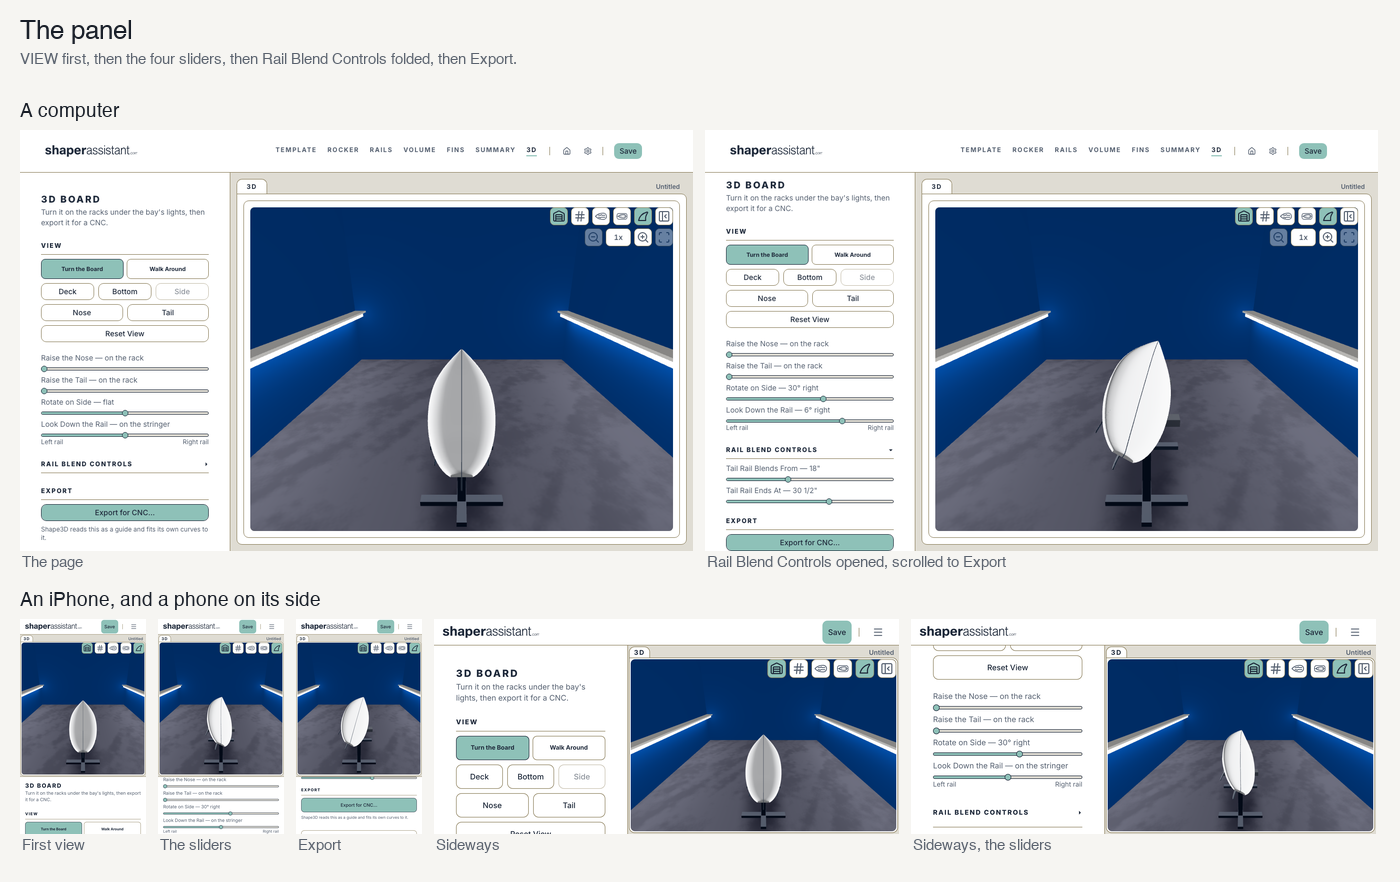
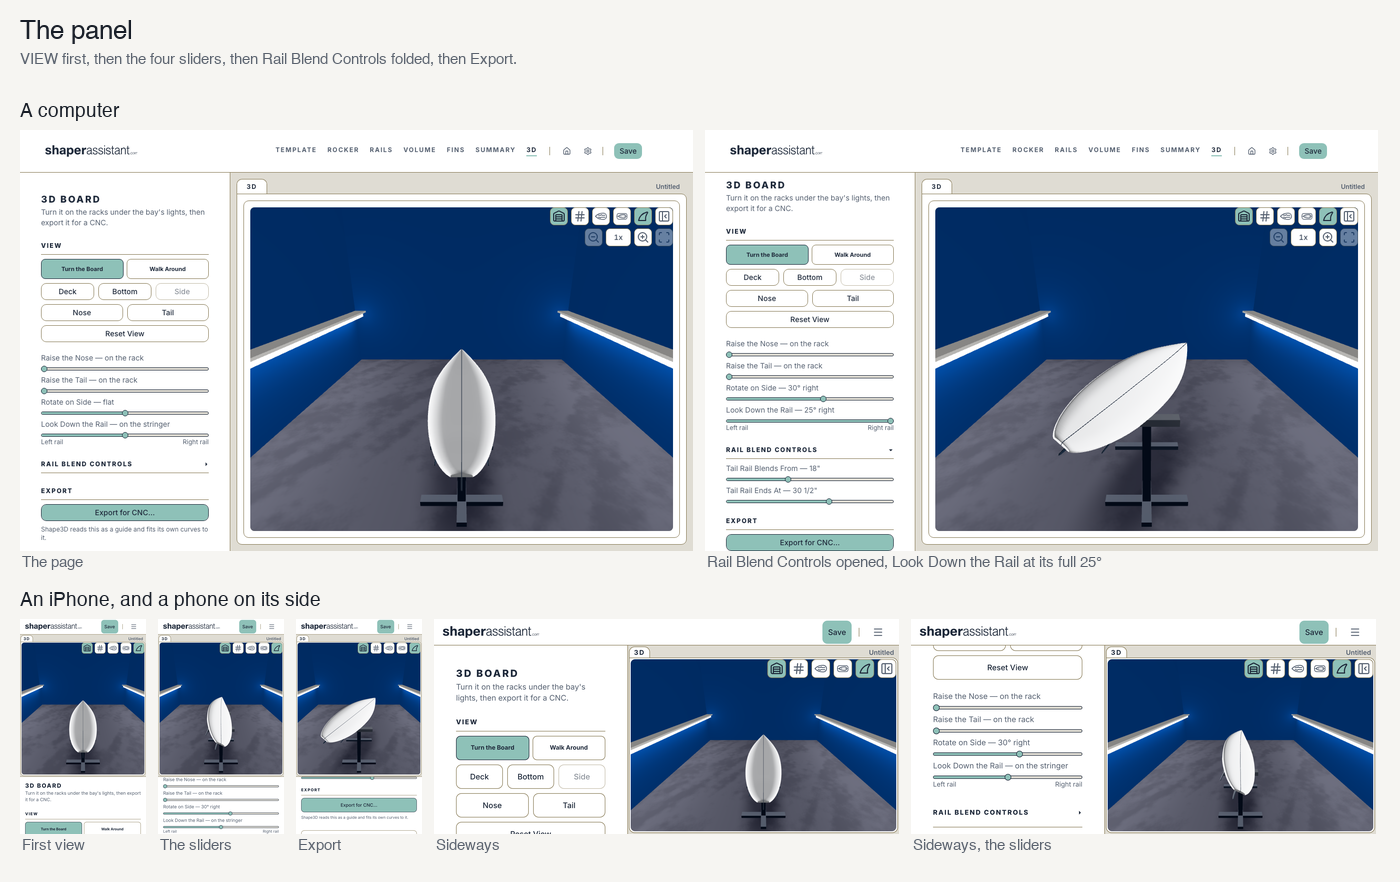
feat(16-18): let Look Down the Rail go to 25 degrees either way, and keep the board sitting on the pads however far it is turned
- The founder: "look down rail should go to 25deg", in both modes
- Turned that far and nearly bottom up, a long board sat over 4 mm into a pad;
  it now rests on the pad's real footprint under the turned board
- A board lying straight on the racks sits exactly where it did

diff --git a/lib/geometry/shaping-bay.test.ts b/lib/geometry/shaping-bay.test.ts
@@ -376,6 +376,14 @@ describe("rackSeat and overPad — the board on its racks", () => {
         expect(seat.at).toBeCloseTo(BAY.rackShare * seat.length, 9);
       });
 
+      it("turned over the pads it rests on what the pad's corners reach, and square to them it reads as it always has", () => {
+        for (const roll of [0, 45, 90, 150, 180]) {
+          expect(overPad(seat, roll, 0)).toBe(overPad(seat, roll));
+          expect(overPad(seat, roll, 180)).toBeCloseTo(overPad(seat, roll), 6);
+          expect(overPad(seat, roll, SIGHT_LIMIT_DEG)).toBeGreaterThanOrEqual(overPad(seat, roll));
+        }
+      });
+
       it("at 0° overPad is home; on a rail it rises by less than half its width plus its thickness", () => {
         expect(overPad(seat, 0)).toBe(seat.home);
         const width = surface.width;
@@ -449,9 +457,10 @@ describe("boardPlace — where the board stands for any turn", () => {
       });
 
       it("end for end or turned a few degrees, no vertex lies 2 mm inside a pad, raised or rolled", () => {
-        for (const swing of [180, -SIGHT_LIMIT_DEG, SIGHT_LIMIT_DEG, 180 - SIGHT_LIMIT_DEG]) {
+        for (const swing of [180, -SIGHT_LIMIT_DEG, SIGHT_LIMIT_DEG, 180 - SIGHT_LIMIT_DEG, 180 + SIGHT_LIMIT_DEG]) {
           for (const lift of [-60, -30, 0, 30, 60]) {
-            for (const roll of [-90, -45, 0, 45, 90, 180]) {
+            // Every 30°: a coarser grid stepped over a board nearly bottom up, 4.6 mm into a pad at roll 150.
+            for (let roll = -180; roll < 180; roll += 30) {
               const angles = { swing, lift, roll };
               const place = boardPlace(all, angles, seat);
               let deepest = -Infinity;
@@ -505,6 +514,12 @@ describe("boardPlace — where the board stands for any turn", () => {
             { ...AT_REST, swing: 180 },
             { ...AT_REST, swing: SIGHT_LIMIT_DEG },
             { ...AT_REST, swing: -SIGHT_LIMIT_DEG },
+            { ...AT_REST, swing: 180 + SIGHT_LIMIT_DEG },
+            { ...AT_REST, swing: 180 - SIGHT_LIMIT_DEG },
+            { swing: SIGHT_LIMIT_DEG, lift: 0, roll: 45 },
+            { swing: -SIGHT_LIMIT_DEG, lift: 0, roll: -45 },
+            { swing: SIGHT_LIMIT_DEG, lift: BAY.liftLimitDeg, roll: 0 },
+            { swing: -SIGHT_LIMIT_DEG, lift: -BAY.liftLimitDeg, roll: 0 },
           ]) {
             expect(depthInPad(inRoom(p, angles, boardPlace(points, angles, seat)), seat.at)).toBeLessThan(0);
           }
@@ -659,6 +674,29 @@ describe("where the viewer stands", () => {
       });
     }
   });
+
+  it("the Look Down the Rail limit is the founder's 25°", () => {
+    expect(SIGHT_LIMIT_DEG).toBe(25);
+  });
+
+  for (const { label, seat, points } of [...BOARDS, LONGEST]) {
+    it(`${label}: at the full Look Down the Rail from either end the eye stays in the room, on every window`, () => {
+      for (const [, aspect] of ASPECTS) {
+        const lens = bayLens(points, seat, aspect);
+        for (const name of ["nose", "tail"] as const) {
+          for (const sightDeg of [-SIGHT_LIMIT_DEG, SIGHT_LIMIT_DEG]) {
+            const viewer = clampViewer({ ...standAt(name, 0), sightDeg }, seat, lens);
+            expect(viewer.sightDeg).toBe(sightDeg);
+            const { position, axes } = viewerPlace(viewer, lens, seat);
+            expect(Math.abs(position[0])).toBeLessThanOrEqual(BAY.lengthMm / 2 - BAY.viewerMarginMm + 1);
+            expect(Math.abs(position[2])).toBeLessThanOrEqual(BAY.widthMm / 2 - BAY.viewerMarginMm + 1);
+            expect(position[1]).toBeGreaterThanOrEqual(BAY.viewerFloorMm - 1);
+            expect(dot(axes.forward, [-position[0], BAY.rackTopMm + seat.home - position[1], -position[2]])).toBeGreaterThan(0);
+          }
+        }
+      }
+    });
+  }
 
   it("clampViewer leaves a viewer inside the limits alone, holds elevation at both ends and wraps azimuth", () => {
     const { seat, points } = BOARDS[0];

diff --git a/lib/geometry/shaping-bay.ts b/lib/geometry/shaping-bay.ts
@@ -303,19 +303,36 @@ export interface RackSeat {
   home: number;
 }
 
-/** How far the board's centre stands above the pad tops rolled by `rollDeg`: it rests on its lowest point over a pad. */
-export function overPad(seat: Pick<RackSeat, "band">, rollDeg: number): number {
-  const c = Math.cos(rollDeg * RAD);
-  const s = Math.sin(rollDeg * RAD);
-  let need = -Infinity;
-  for (const p of seat.band) {
-    if (Math.abs(p[1] * c - p[2] * s) <= BAY.padHalfSpanMm) need = Math.max(need, -(p[2] * c + p[1] * s));
-  }
-  return Number.isFinite(need) ? need : 0;
-}
-
 /** The sampled points are coarser than a pad is deep, so the band reaches this far either side of it. */
 const BAND_REACH_MM = 45;
+
+/** The lowest point over the pads with the board rolled and turned `swingDeg` about the vertical over them. */
+function restingHeight(seat: Pick<RackSeat, "band" | "at">, rollDeg: number, swingDeg: number): number {
+  const c = Math.cos(rollDeg * RAD);
+  const s = Math.sin(rollDeg * RAD);
+  const turnC = Math.cos(swingDeg * RAD);
+  const turnS = Math.sin(swingDeg * RAD);
+  let need = -Infinity;
+  for (const p of seat.band) {
+    const across = p[1] * c - p[2] * s;
+    const along = -p[0] * turnC - across * turnS;
+    const side = -p[0] * turnS + across * turnC;
+    if (Math.abs(side) > BAY.padHalfSpanMm) continue;
+    if (Math.abs(Math.abs(along) - seat.at) > BAY.padHalfDepthMm + BAND_REACH_MM) continue;
+    need = Math.max(need, -(p[2] * c + p[1] * s));
+  }
+  return need;
+}
+
+/**
+ * How far the board's centre stands above the pad tops: it rests on its lowest point over a pad, rolled by `rollDeg` and
+ * turned `swingDeg` over racks that stay square to the room, so a pad's corners reach foam its edges wouldn't. Never lower
+ * than the board square to the pads, so it can't sink while Nose or Tail swings it round.
+ */
+export function overPad(seat: Pick<RackSeat, "band" | "at">, rollDeg: number, swingDeg = 0): number {
+  const need = Math.max(restingHeight(seat, rollDeg, 0), restingHeight(seat, rollDeg, swingDeg));
+  return Number.isFinite(need) ? need : 0;
+}
 
 /** The seat of a board on its racks, from its points relative to its turning centre (`framePointsOf`). */
 export function rackSeat(points: readonly Vec3[]): RackSeat {
@@ -327,7 +344,9 @@ export function rackSeat(points: readonly Vec3[]): RackSeat {
   }
   const length = points.length > 0 ? hi - lo : 0;
   const at = BAY.rackShare * length;
-  const band = points.filter((p) => Math.abs(Math.abs(p[0]) - at) <= BAY.padHalfDepthMm + BAND_REACH_MM);
+  // Wide enough for a pad's corner on a board turned to Look Down the Rail's limit.
+  const reach = BAY.padHalfDepthMm + BAND_REACH_MM + BAY.padHalfSpanMm * Math.sin(SIGHT_LIMIT_DEG * RAD);
+  const band = points.filter((p) => Math.abs(Math.abs(p[0]) - at) <= reach);
   const seat = { at, length, band, home: 0 };
   return { ...seat, home: overPad(seat, 0) };
 }
@@ -340,7 +359,7 @@ export function rackSeat(points: readonly Vec3[]): RackSeat {
  * end for end tips over the rack on its own far side.
  */
 export function boardPlace(points: readonly Vec3[], angles: RackAngles, seat: RackSeat): Vec3 {
-  const h = overPad(seat, angles.roll);
+  const h = overPad(seat, angles.roll, angles.swing);
   const a = Math.abs(angles.lift) * RAD;
   const sign = angles.lift < 0 ? -1 : 1;
   // Turned off the room's line, the board tips over the pad's corner, not its square edge.
@@ -440,7 +459,7 @@ export const REST_VIEWER: Viewer = {
 };
 
 /** How far Look Down the Rail shifts the eye either way: past the widest rail's own line from anywhere the viewer stands. */
-export const SIGHT_LIMIT_DEG = 15;
+export const SIGHT_LIMIT_DEG = 25;
 /** Look Down the Rail's step: about 13 mm of eye at the end of the room, finer than a rail's line needs. */
 export const SIGHT_STEP_DEG = 0.25;
 

diff --git a/.planning/phases/16-3d-board-and-cnc-export/16-18-SUMMARY.md b/.planning/phases/16-3d-board-and-cnc-export/16-18-SUMMARY.md
@@ -116,7 +116,7 @@ The 3D screen is now a drawn shaping bay: deep blue walls, a dusty floor and a l
 | **Tail** | The board turns back, tail nearer you: the first view. | You stand at the tail, facing the nose. |
 | **Reset View** | The board and you back at the first view, at 1x. | The same; the mode stays. |
 | **A drag** | Moves the board only. See below. | Walks you round, inside the room and above the floor. |
-| **Look Down the Rail** | Turns the board up to 15° either way on the racks. | Moves your eye up to 15° either way. |
+| **Look Down the Rail** | Turns the board up to 25° either way on the racks. | Moves your eye up to 25° either way. |
 
 | Slider or switch | What it does |
 |---|---|
@@ -152,6 +152,7 @@ Before, a sideways drag from behind the tail was almost all swing. With the rack
 3. **Side on a Longboard:** "Leave it." No change.
 4. **His notes after driving it,** which override anything earlier: one shelf per strip; VIEW first; the two modes as tabled above; no Flip the Board; no auto zoom; the sliders next; Rail Blend Controls folded; then Export.
 5. **The wire view:** the lines ignore the wing.
+6. **Look Down the Rail:** "look down rail should go to 25deg". Done, in both modes, up from 15°.
 
 Standing as they were: Deck and Bottom reset Look Down the Rail with every other slider, and the switch's filled pill stays.
 
@@ -173,7 +174,7 @@ All in `.planning/phases/16-3d-board-and-cnc-export/pictures/`, the scripts in `
 - `16-18-on-the-racks.png`: Bottom, each end raised, rotated 45° each way, Nose end for end, on a computer and an iPhone, Shortboard and Longboard.
 - `16-18-two-ways.png`: the same drag each way, the buttons each way, Look Down the Rail in each mode, and a Longboard at Side.
 - `16-18-looks-and-themes.png`: Contour Stripes, Wire View, the room off, and the four themes both ways.
-- `16-18-panel.png`: the panel in his order, on a computer, an iPhone and a sideways phone, with Rail Blend Controls open and folded.
+- `16-18-panel.png`: the panel in his order, on a computer, an iPhone and a sideways phone, with Rail Blend Controls open and folded, and Look Down the Rail at its full 25°.
 - `16-18-wire-at-a-wing.png`: Wire View on a Shortboard from behind the tail, before and after, a default wing and a square one.
 
 ## Against his photo
@@ -207,7 +208,21 @@ Real surfaces, racks at 18%, pad tops at 740 mm. Heights are in mm off the floor
 | Longboard | 411 / 1775 | 225 / 2154 | 74 / 2437 |
 | 120" | 333 / 1845 | 128 / 2273 | 40 / 2672 |
 
-Proven by test over the raise in 10-degree steps and every roll in 15-degree steps, on every vertex of the full surface: nothing lies more than 2 mm inside a pad, and the foam stays at least 40 mm off the floor, a rule only the 120" board reaches. No fin point lies inside a pad at rest, rolled 45° each way, end for end or turned the full 15° either way, across all 32 fin cases. The same 2 mm rule on the foam holds end for end and turned 15°, raised up to 60° and rolled: a pose that needed the fix in deviation 13. These tables were measured with the board straight; a board turned for Look Down the Rail and raised stands a little higher.
+Proven by test over the raise in 10-degree steps and every roll in 15-degree steps, on every vertex of the full surface: nothing lies more than 2 mm inside a pad, and the foam stays at least 40 mm off the floor, a rule only the 120" board reaches. No fin point lies inside a pad at rest, rolled 45° each way, end for end or turned the full 25° either way, across all 32 fin cases. These tables are the board straight, and they did not move when the limit went to 25°; a board turned for Look Down the Rail and raised stands a little higher.
+
+### At the full Look Down the Rail, ±25°
+
+Measured on the real surface with every vertex, at both headings (±25° and 180° ±25°), raised up to 60° either way in 15° steps and rolled all the way round in 30° steps, with the rack posts counted as well as the pads. A negative figure is clear air. The 120" board takes the Longboard's fin setups on its own length and rocker.
+
+| Board | Deepest foam into a rack | Lowest foam off the floor | Nearest any fin comes to a rack | Eye off the nearest wall | Lowest eye height |
+|---|---|---|---|---|---|
+| Shortboard | clear by 0.6 mm | 307 mm | 29 mm clear | 1132 mm | 1235 mm |
+| Fish | clear by 0.2 mm | 349 mm | 10 mm clear | 1132 mm | 1238 mm |
+| Mid-length | **0.6 mm in** | 229 mm | 94 mm clear | 1019 mm | 1291 mm |
+| Longboard | clear by 0.02 mm | 71 mm | 175 mm clear | 565 mm | 1419 mm |
+| 120" | clear by 0.02 mm | 40 mm | 238 mm clear | 369 mm | 1470 mm |
+
+All inside the 2 mm rule, the 40 mm floor rule and the 200 mm wall rule. The eye figures are Walk Around from both ends, on all six windows. The fins are read down their centre plane, so take half a fin's thickness off the tightest, the Fish's 2+1. The sweep's own steps are 15° and 30°, so a pose between them isn't measured here.
 
 ## Where the viewer stands
 
@@ -237,7 +252,18 @@ All the on-chip figures sit inside one 60 Hz frame (16.7 ms). They were taken be
 
 ## How it was proven
 
-On the final code, after his notes and the wire view:
+After the 25° change (the last commit), on its own list:
+
+| Check | Result |
+|---|---|
+| `npx tsc --noEmit`, `npm run lint` | Exit 0; the one existing warning |
+| `lib/geometry/shaping-bay.test.ts` | Exit 0: 146 passed |
+| `e2e/three-d-bay.spec.ts`, 3 projects | Exit 0: 58 passed, 8 skipped |
+| Desktop baseline | Exit 0: 6 passed, nothing re-recorded: the slider rests at its middle either way |
+
+The other specs and the whole unit suite were not re-run for this change. The figures below are from the commit before it.
+
+Before the 25° change, after his notes and the wire view:
 
 | Check | Result |
 |---|---|
@@ -307,7 +333,9 @@ The 78 skips are `test.skip` conditions that scope a case to a project.
 
 **15. `lib/geometry/board-surface.ts` changed,** which the plan's prohibition named. The orchestrator directed it for the wire view, on the condition that positions, triangles and the CNC files do not change; the surface pins prove they didn't. `e2e/three-d-hard-edge.spec.ts` changed too, to open the fold. Neither is in `files_modified`.
 
-**16. The run was interrupted once by an API connection error.** The first whole gate run was stopped by hand at test 135 of 318, as the load average had reached 260 to 390 and its results could not be trusted. Nothing was reset or lost.
+**16. [Rule 1 - Bug] At ±25° a board nearly bottom up sat in a pad.** The range change itself was clean on the tests' grid, but a finer measured sweep found 4.6 mm on the 120" board and 4.5 mm on the Longboard at roll 150°, which the grid stepped over. The resting height was worked out as if the board stood square to the pads. It now reads the pad's real footprint under the turned board, and never less than the square answer, so a straight board's figures are unchanged. The test grid now rolls every 30°, and with the fix out it fails.
+
+**17. The run was interrupted once by an API connection error.** The first whole gate run was stopped by hand at test 135 of 318, as the load average had reached 260 to 390 and its results could not be trusted. Nothing was reset or lost.
 
 ## Known Issues
 
